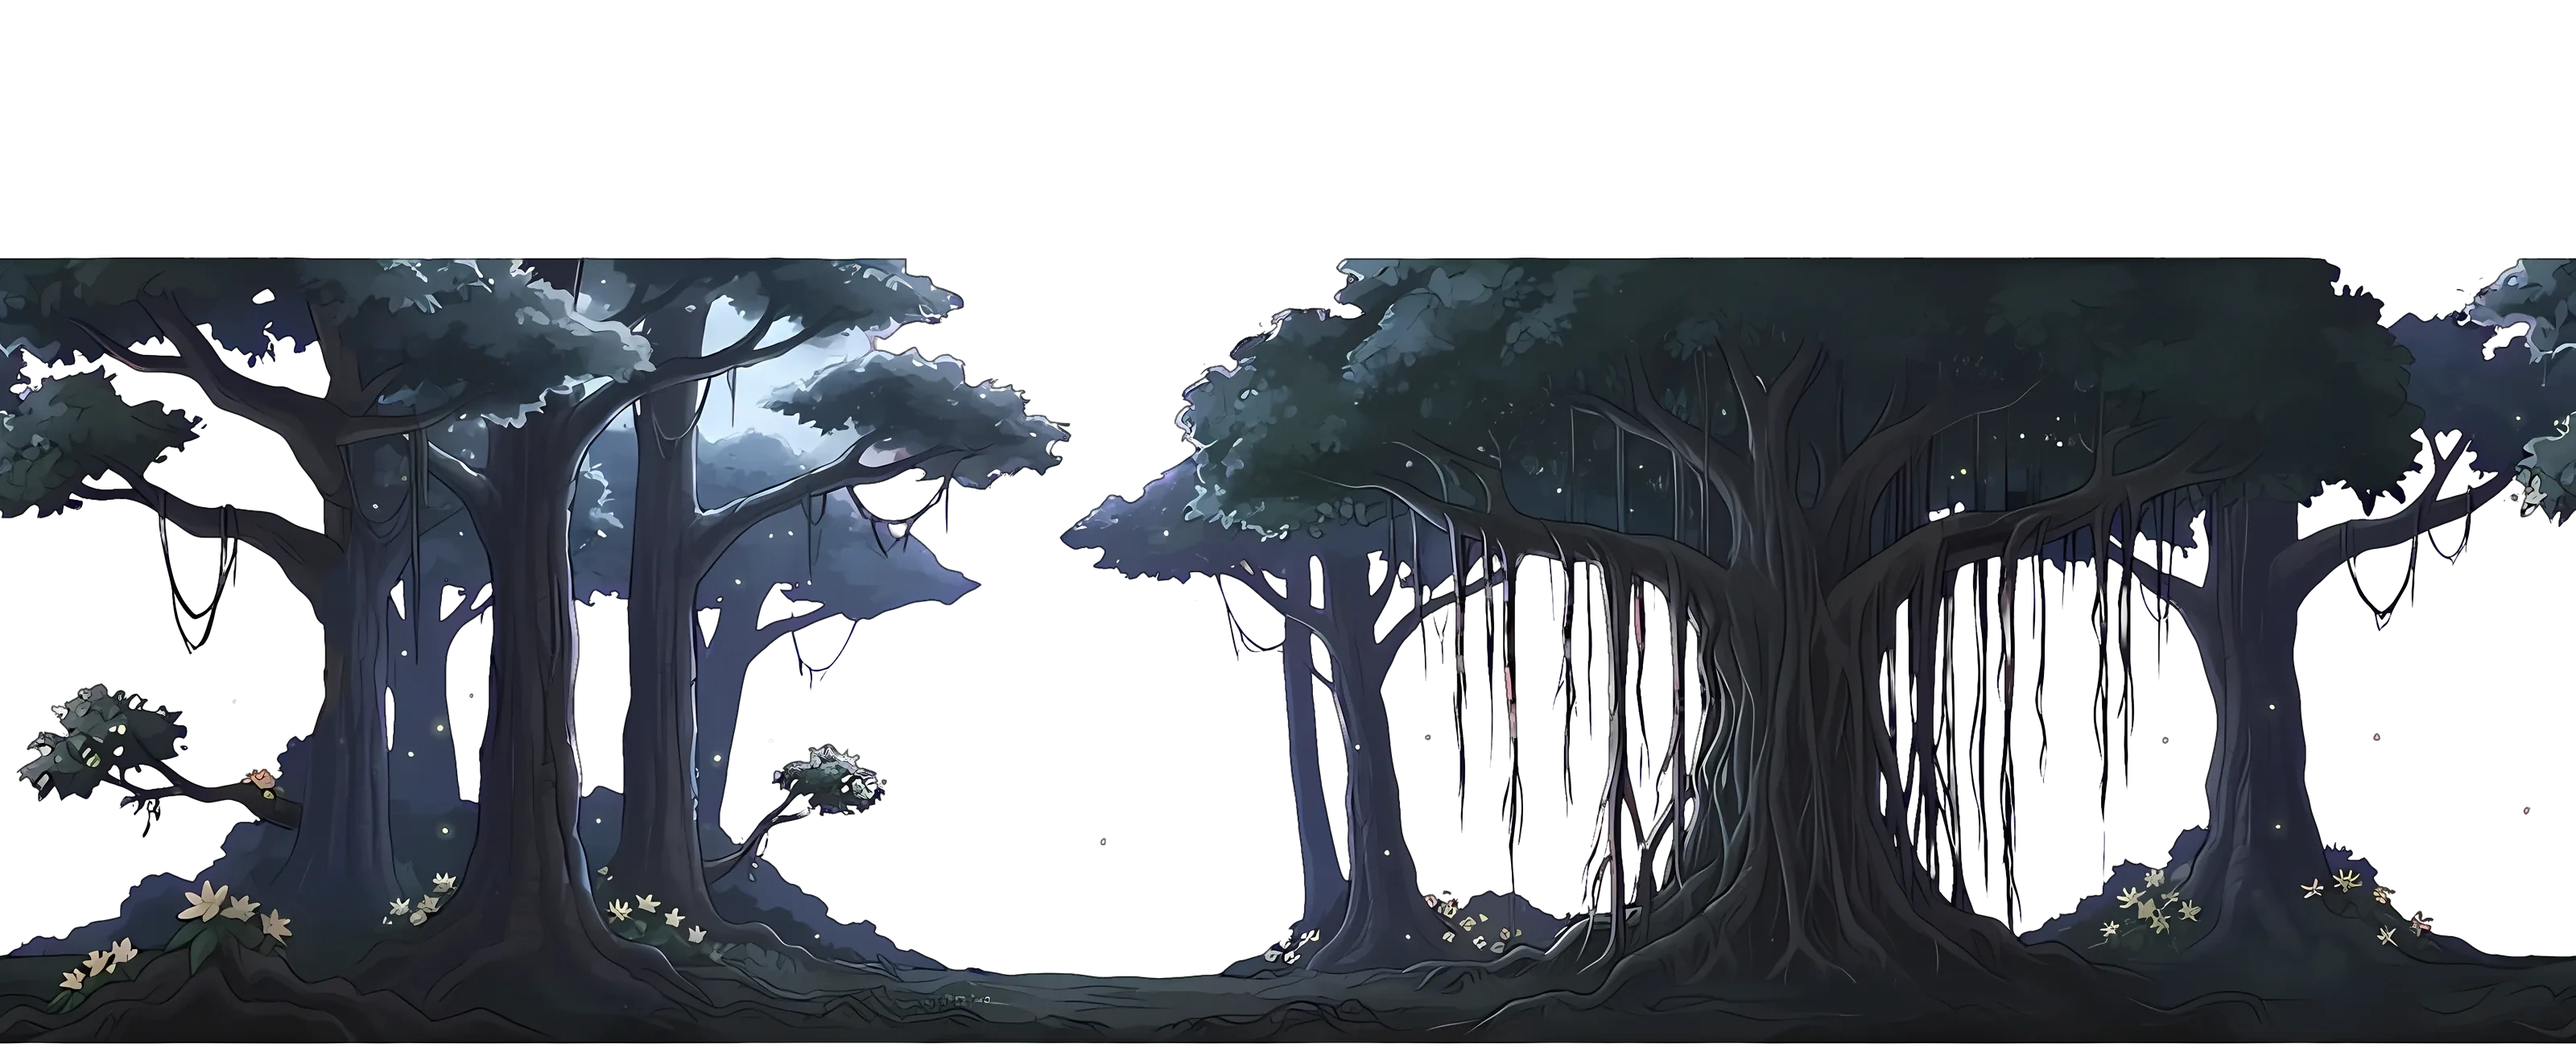
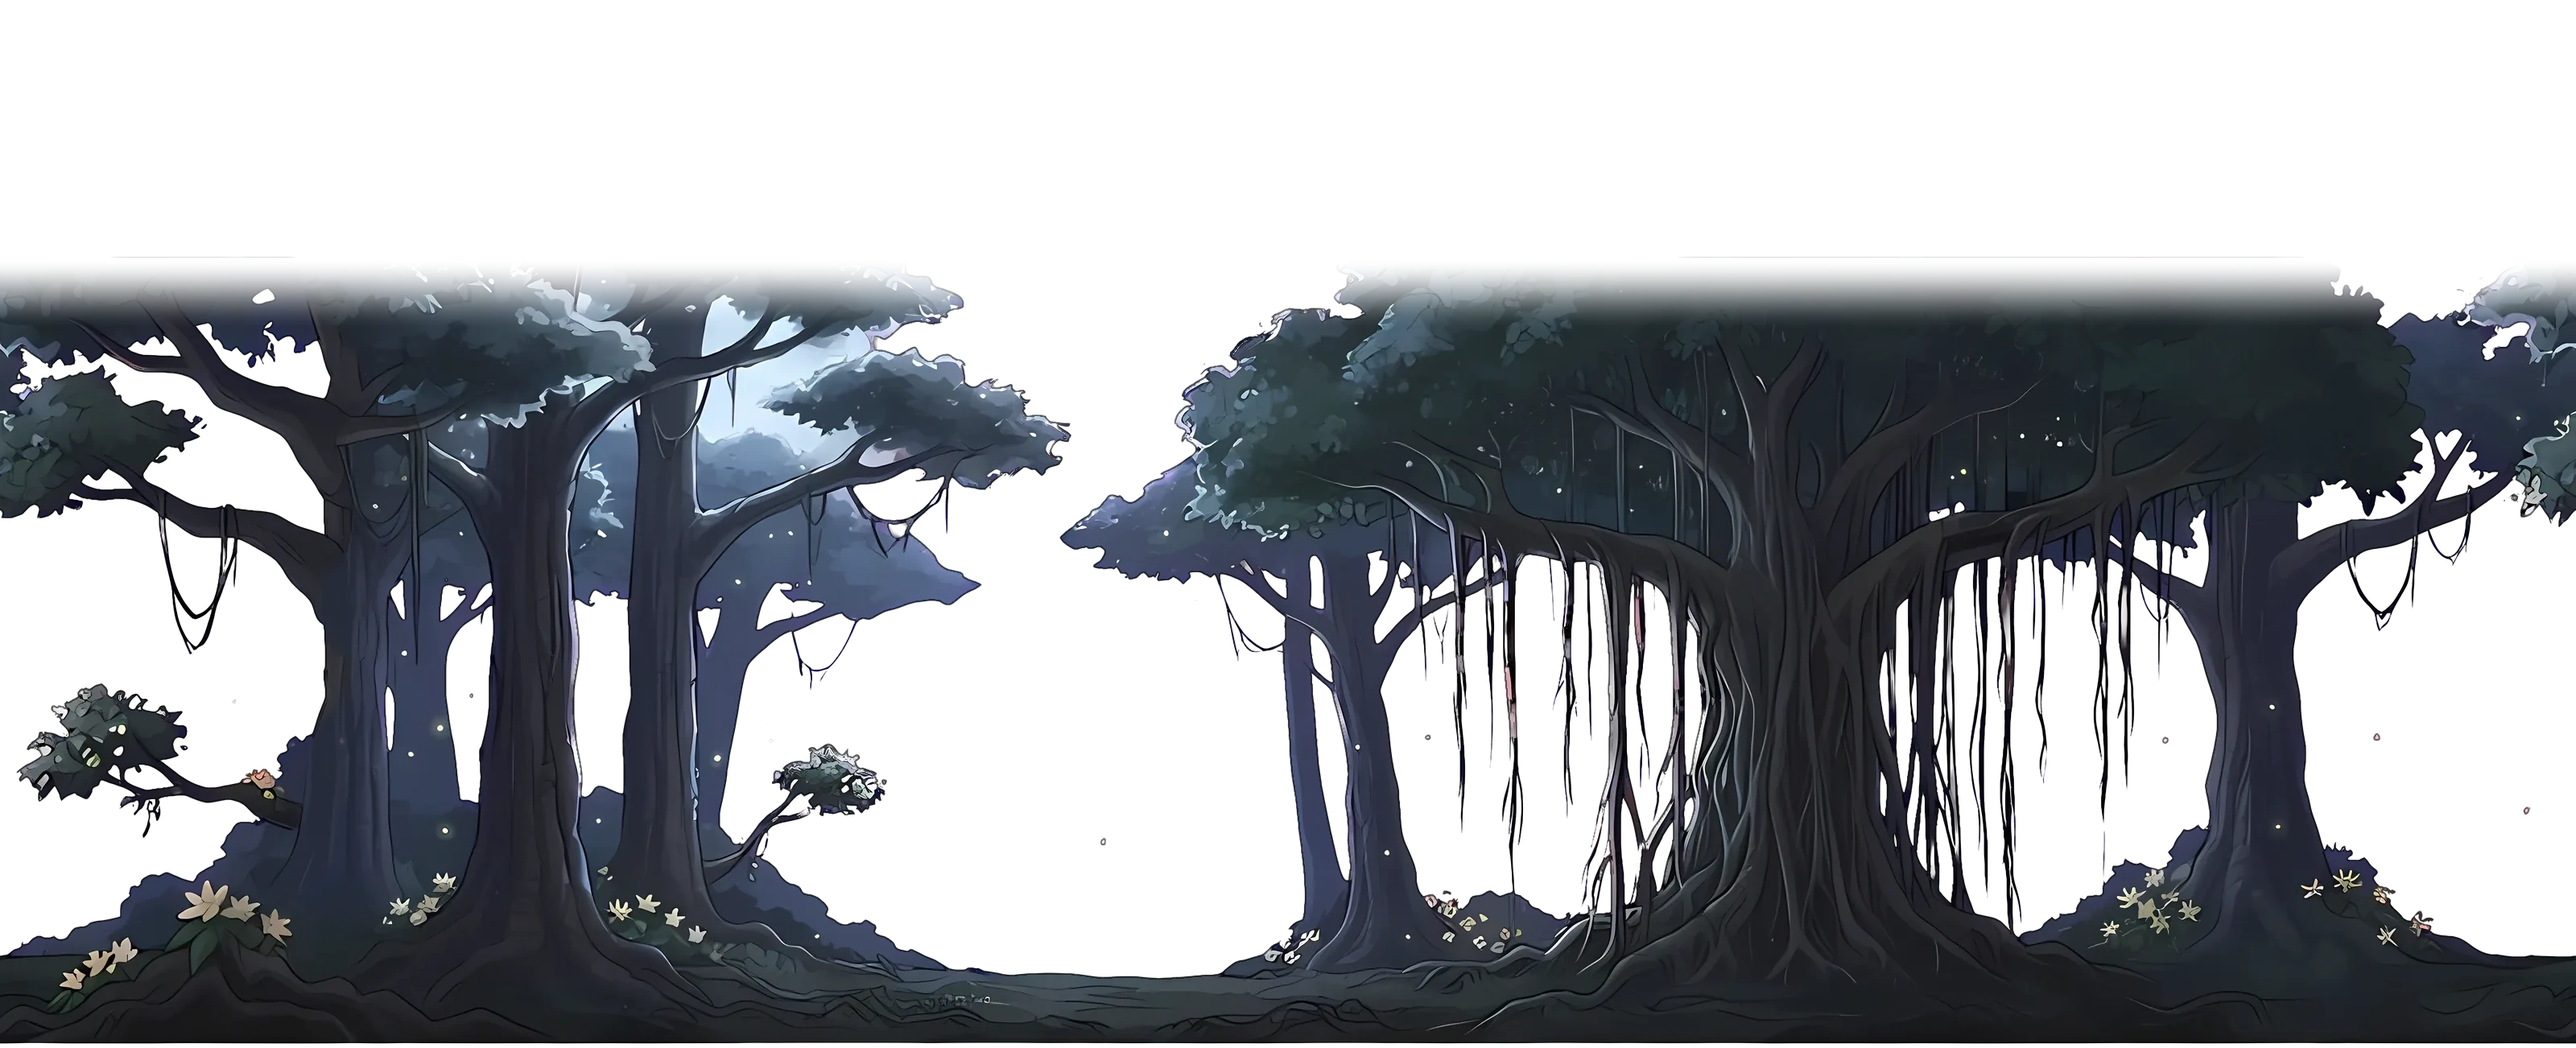
X-16: 18 painted skies in (the 16 that failed review held back for round 2); w8-mid's straight-cut top fades out
Claude-Session: https://claude.ai/code/session_01FhBbYNmvX29Yt9L2XxEWqJ

Changed region(s): [[0.5, 0.2458, 1.0, 0.3072], [0.0, 0.2458, 0.375, 0.3072]]

diff --git a/tools/art/edges/run_all.py b/tools/art/edges/run_all.py
@@ -43,8 +43,9 @@ RECIPES = [
     (['w5night'], '1baf7ca', ['--scale', '1', '--keep-line', '--despill', '--q', '82']),
 ]
 # the middle strips whose top edge is solid paint (trees, the cave roof run off it): upright that edge is on screen, so their top 7% fades
-# out into the far strip's painted sky (sideways those rows are always above the screen). Measured: alpha in their top rows.
-TOPFADE = {'w1', 'w1c', 'w3', 'w5', 'w5gold2', 'w5dusk1', 'w5dusk2', 'w5twi1', 'w5twi2', 'w5night', 'w7'}
+# out into the far strip's painted sky (sideways those rows are always above the screen). Measured: alpha in their top rows; w8's trees
+# start lower but are cut off just as straight (the fade starts at the first painted row).
+TOPFADE = {'w1', 'w1c', 'w3', 'w5', 'w5gold2', 'w5dusk1', 'w5dusk2', 'w5twi1', 'w5twi2', 'w5night', 'w7', 'w8'}
 
 # (before the native-resolution strips, 2026-10-29, Worlds 1-4, 6, 7 and 10 came from the 1024 px originals at 18bedcc^ with
 # ['--scale', '2', '--esrgan', '--ink'], and Worlds 8-9 from 9f2dbfe with ['--scale', '1', '--esrgan', '--ring', '2', '--ink'])

diff --git a/tools/art/edges/defringe.py b/tools/art/edges/defringe.py
@@ -274,9 +274,11 @@ def process(src_rgba, scale=2.0, use_esrgan=False, ring=1.5, ink=False, do_despi
     if topfade > 0:
         # a middle strip whose top is solid paint: its top rows fade out (sideways they are always off screen; upright the trees
         # dissolve into the far strip's painted sky instead of ending in a straight cut)
+        # (from the strip's first painted row: w8-mid's trees start a quarter of the way down, cut off straight by the original crop)
+        r0 = int(np.argmax((out[..., 3] > 128).mean(1) > 0.01))
         n = max(1, int(round(out.shape[0] * topfade)))
         tt = np.linspace(0, 1, n, dtype=np.float32)
-        out[:n, :, 3] = np.round(out[:n, :, 3] * (tt * tt * (3 - 2 * tt))[:, None]).astype(np.uint8)
+        out[r0:r0 + n, :, 3] = np.round(out[r0:r0 + n, :, 3] * (tt * tt * (3 - 2 * tt))[: out.shape[0] - r0, None]).astype(np.uint8)
     return out, info
 
 
